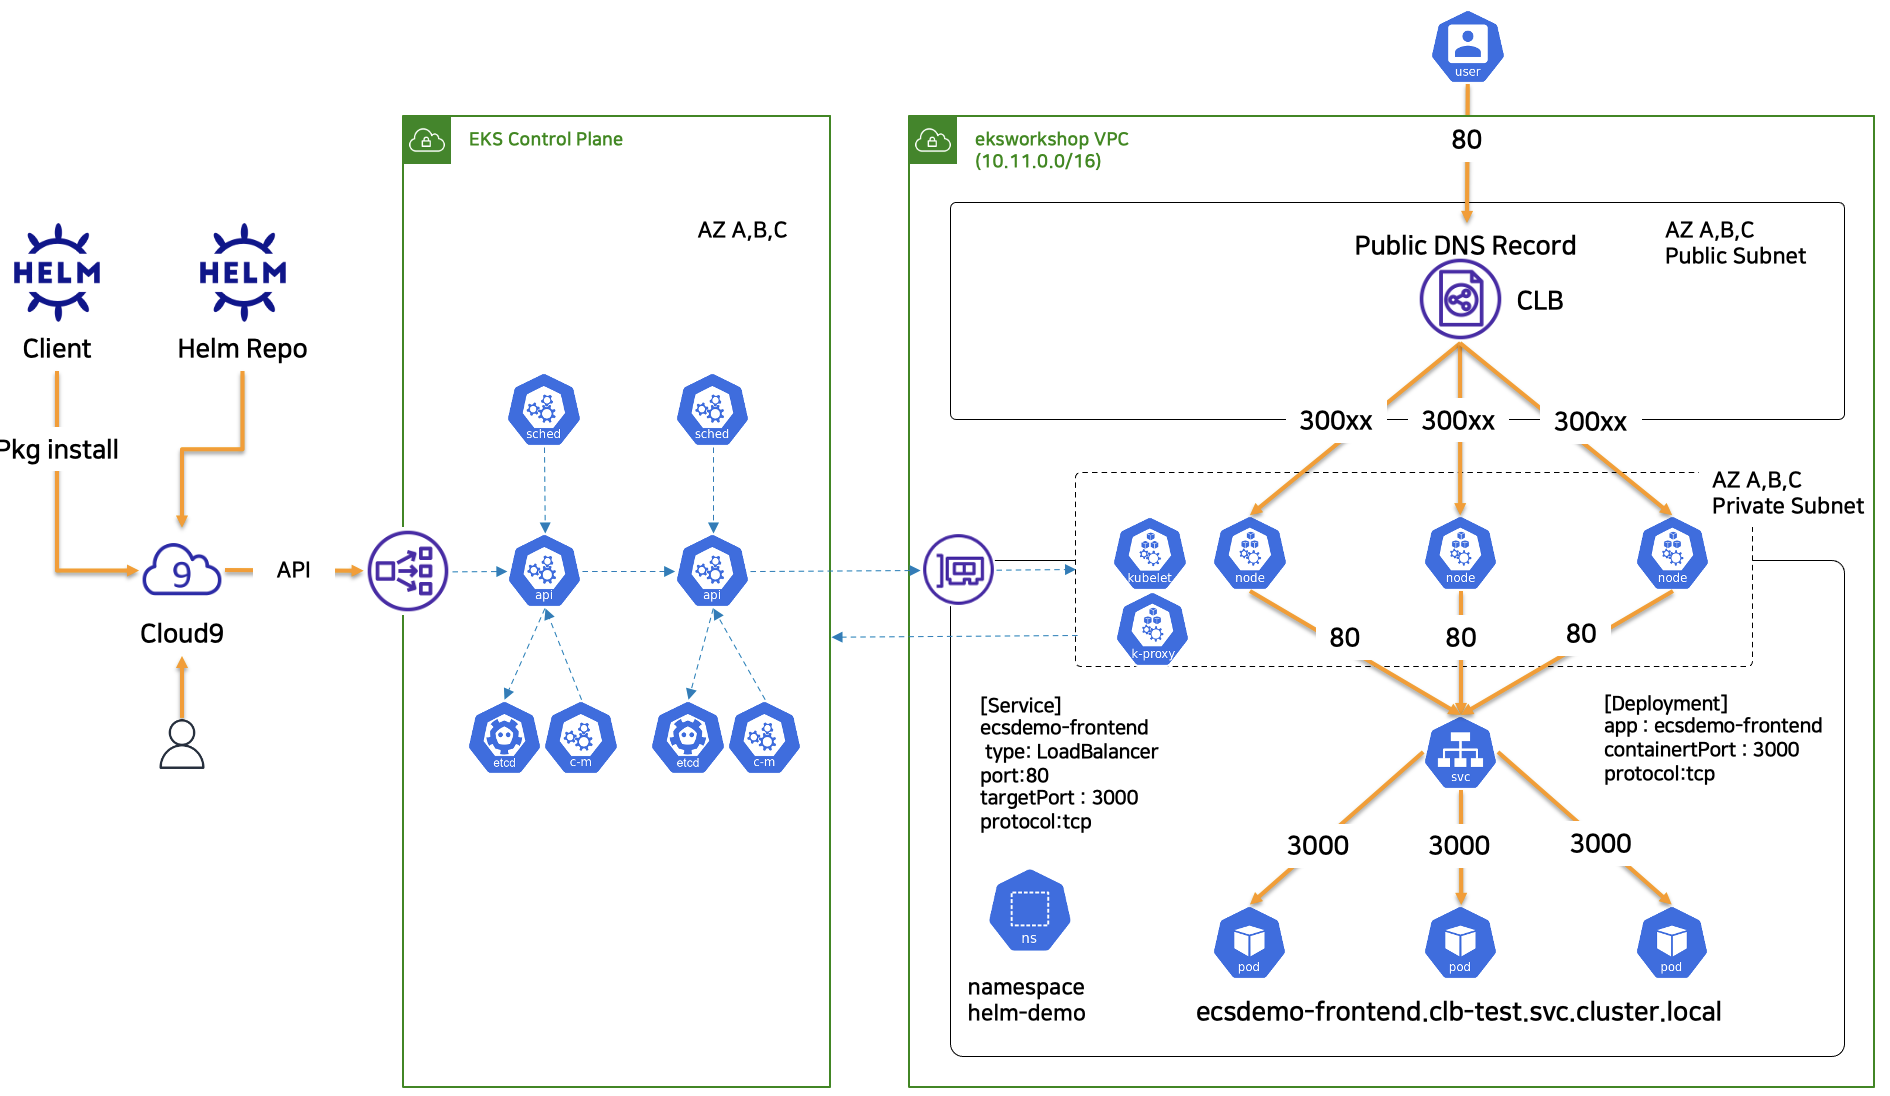
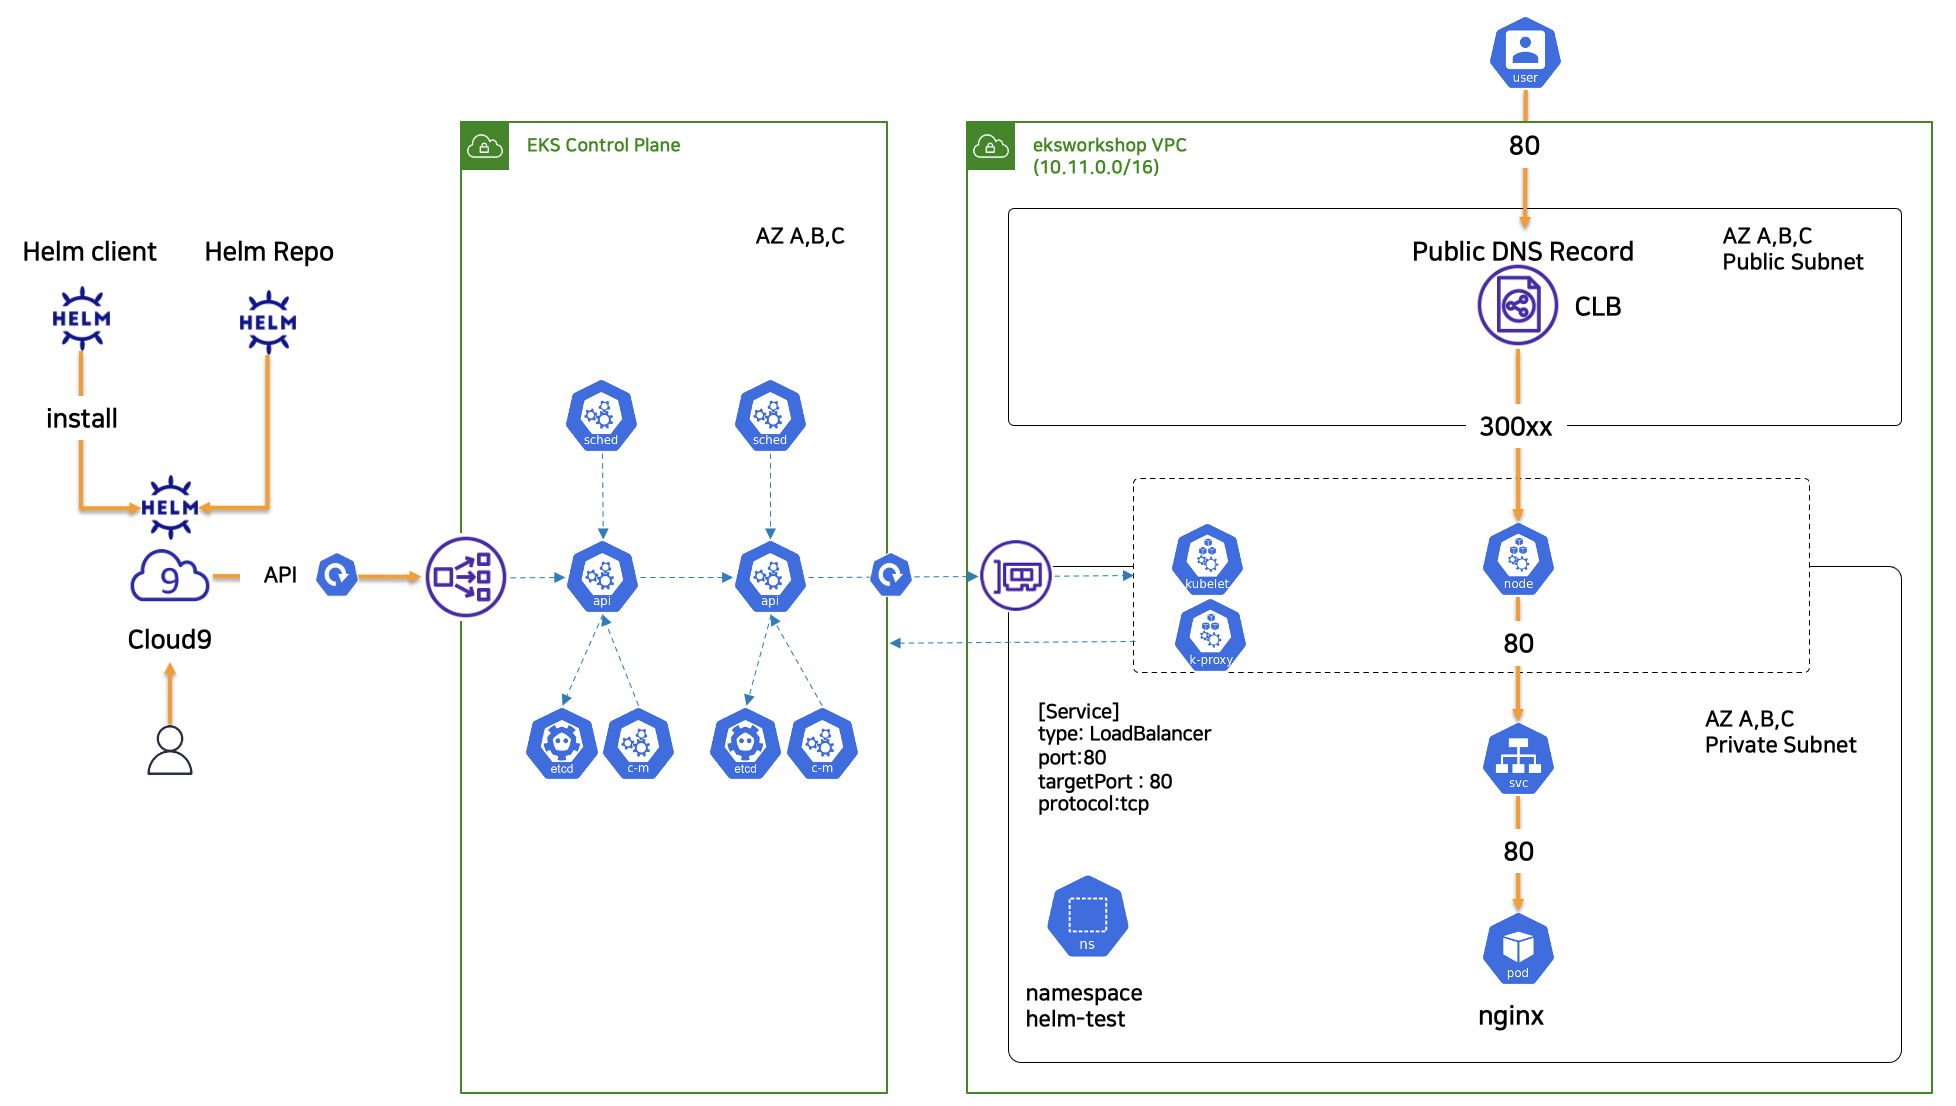
GitBook: [master] one page and 3 assets modified

diff --git a/eks-2/helm.md b/eks-2/helm.md
@@ -29,7 +29,7 @@ Helm Chart의 구조는 아래와 같습니다.
 
 아래와 같은 구성으로 LAB을 진행합니다.
 
-![Helm &#xAE30;&#xBC18; &#xBC30;&#xD3EC; &#xAD6C;&#xC131;](../.gitbook/assets/image%20%28188%29.png)
+![Helm LAB &#xBAA9;&#xD45C; &#xAD6C;&#xC131;&#xB3C4;](../.gitbook/assets/image%20%28187%29.png)
 
 아래와 같은 순서대로 구성합니다.
 
@@ -294,6 +294,10 @@ ELB 삭제 시간으로 3분 정도 소요됩니다.
 {% endhint %}
 
 ## Helm을 이용한 Microservice 배포.
+
+아래와 같은 구성으로 LAB을 진행합니다.
+
+
 
 ### 1.Chart 만들기
 
